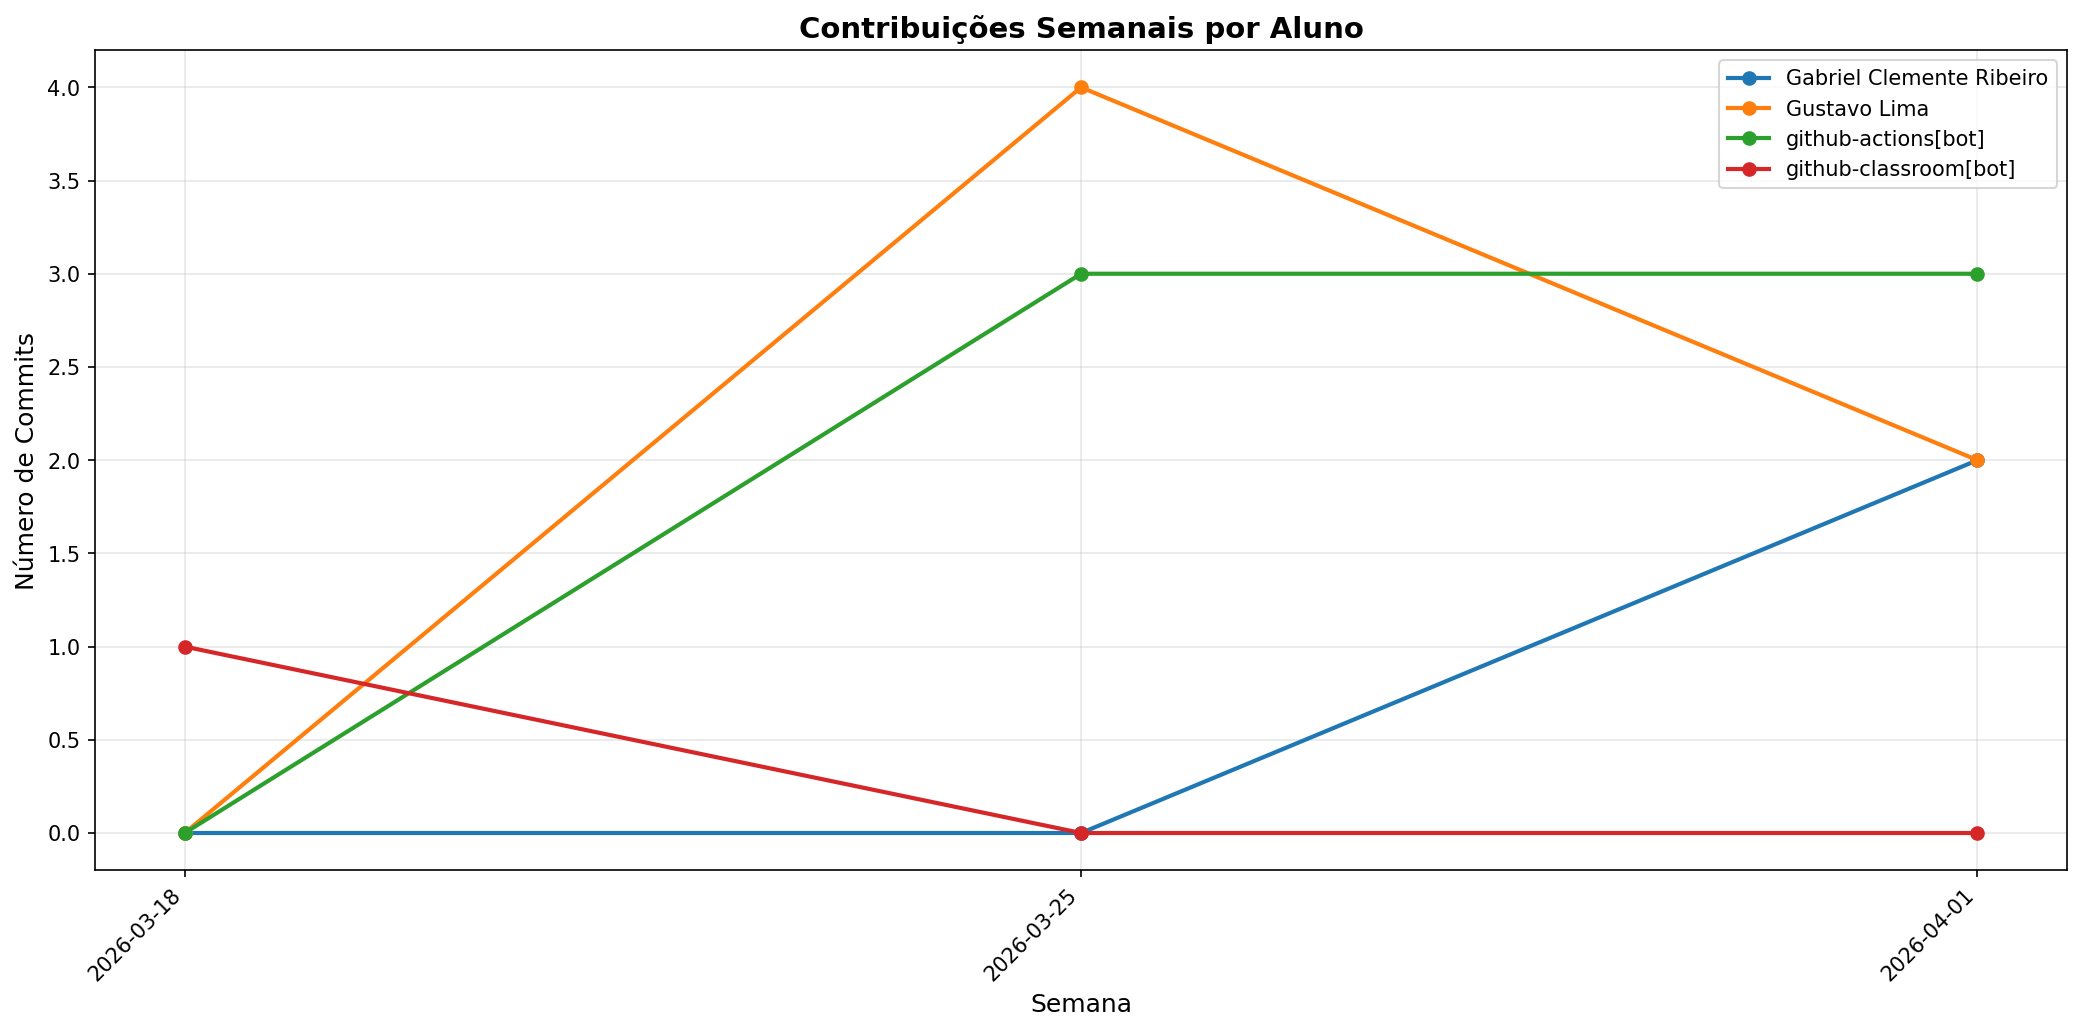
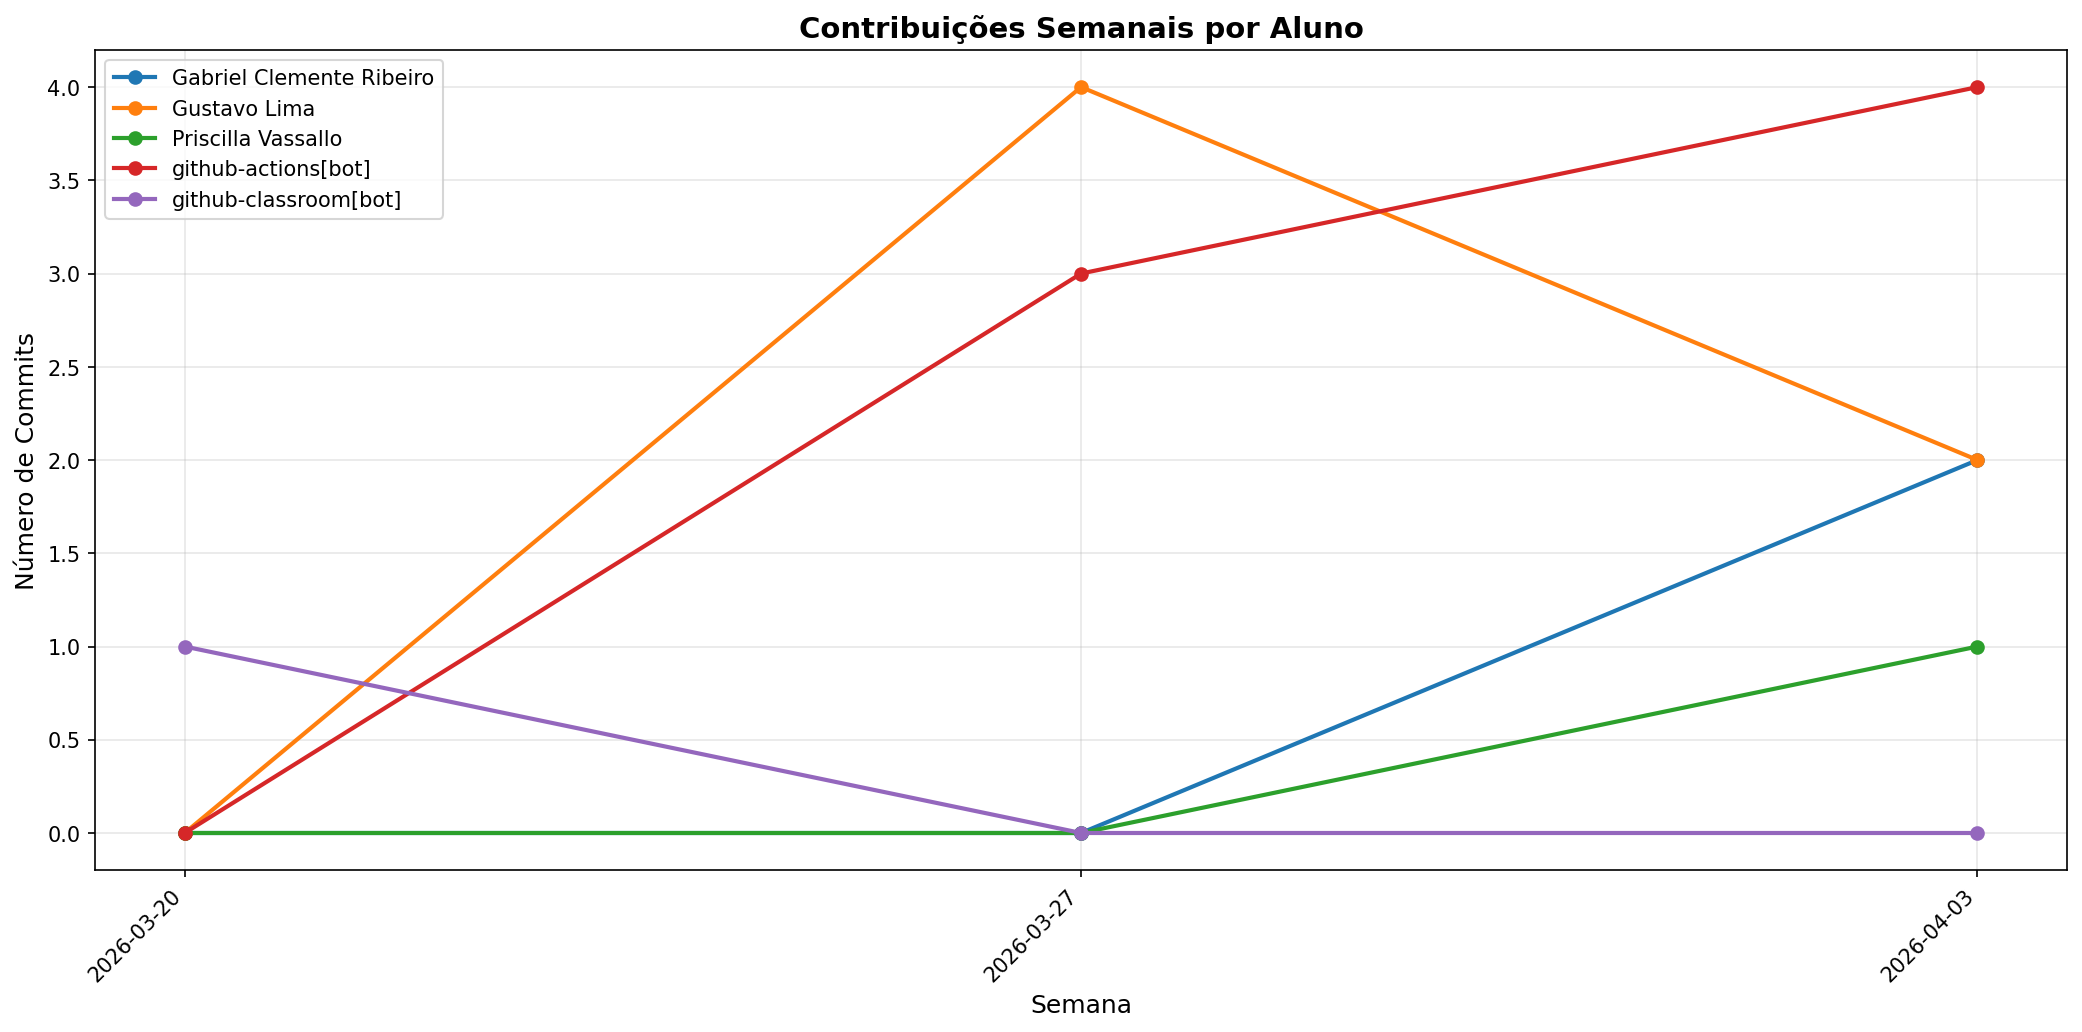
📊 Atualizar relatório de contribuições [skip ci]

diff --git a/documentos/CONTRIBUTION_REPORT.md b/documentos/CONTRIBUTION_REPORT.md
@@ -1,6 +1,6 @@
 # 📊 Relatório de Contribuições do Projeto
 
-**Última atualização:** 08/04/2026 01:12
+**Última atualização:** 10/04/2026 01:20
 
 ---
 
@@ -10,17 +10,18 @@
 |--------------------------|-----------|-----------|-----------|------------|----------------|-----------------|
 | Gabriel Clemente Ribeiro |         2 |         2 |         2 |          1 |              2 |               0 |
 | Gustavo Lima             |         6 |       128 |        59 |          4 |              6 |               1 |
-| github-actions[bot]      |         6 |        75 |        25 |          3 |              6 |               1 |
+| Priscilla Vassallo       |         1 |        19 |         6 |          1 |              1 |               1 |
+| github-actions[bot]      |         7 |        79 |        29 |          3 |              7 |               1 |
 | github-classroom[bot]    |         1 |       774 |         0 |         19 |              1 |               3 |
 
 
 ## 📅 Contribuições Semanais (Todo o Semestre)
 
-**2026-04-01**: Gabriel Clemente Ribeiro: 2, Gustavo Lima: 2, github-actions[bot]: 3
+**2026-04-03**: Gabriel Clemente Ribeiro: 2, Gustavo Lima: 2, Priscilla Vassallo: 1, github-actions[bot]: 4
 
-**2026-03-25**: Gustavo Lima: 4, github-actions[bot]: 3
+**2026-03-27**: Gustavo Lima: 4, github-actions[bot]: 3
 
-**2026-03-18**: github-classroom[bot]: 1
+**2026-03-20**: github-classroom[bot]: 1
 
 
 
